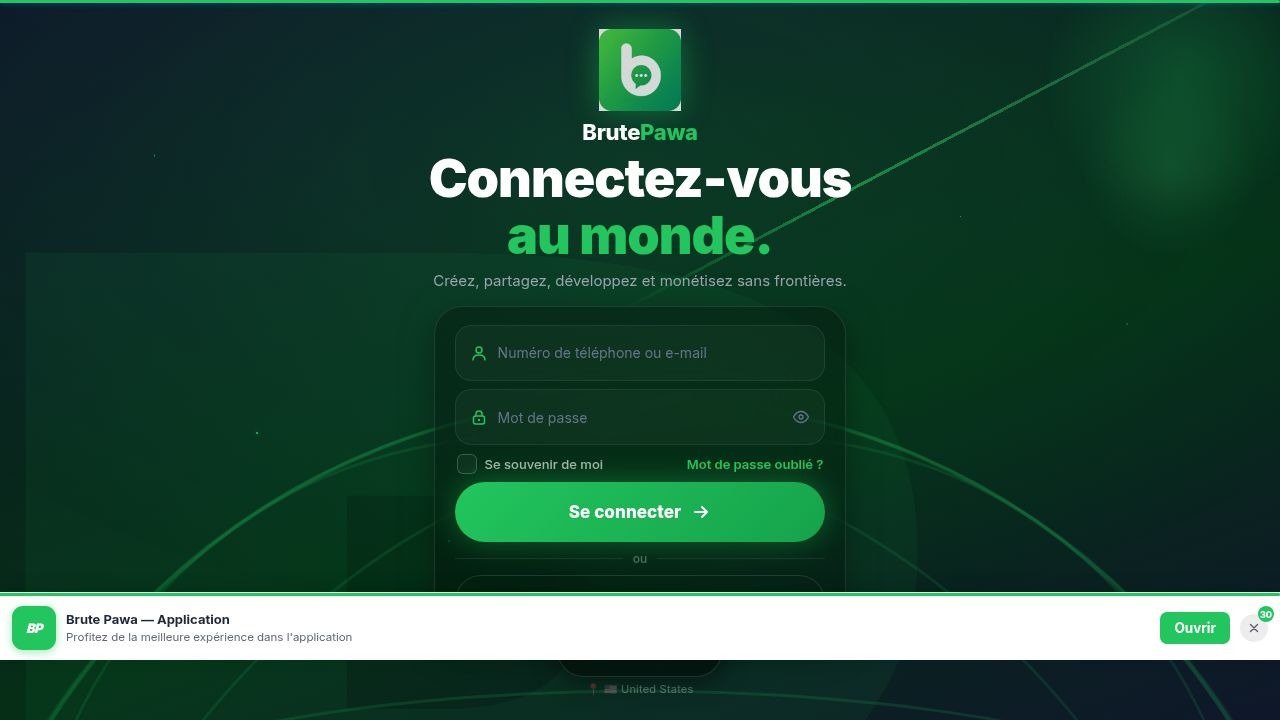
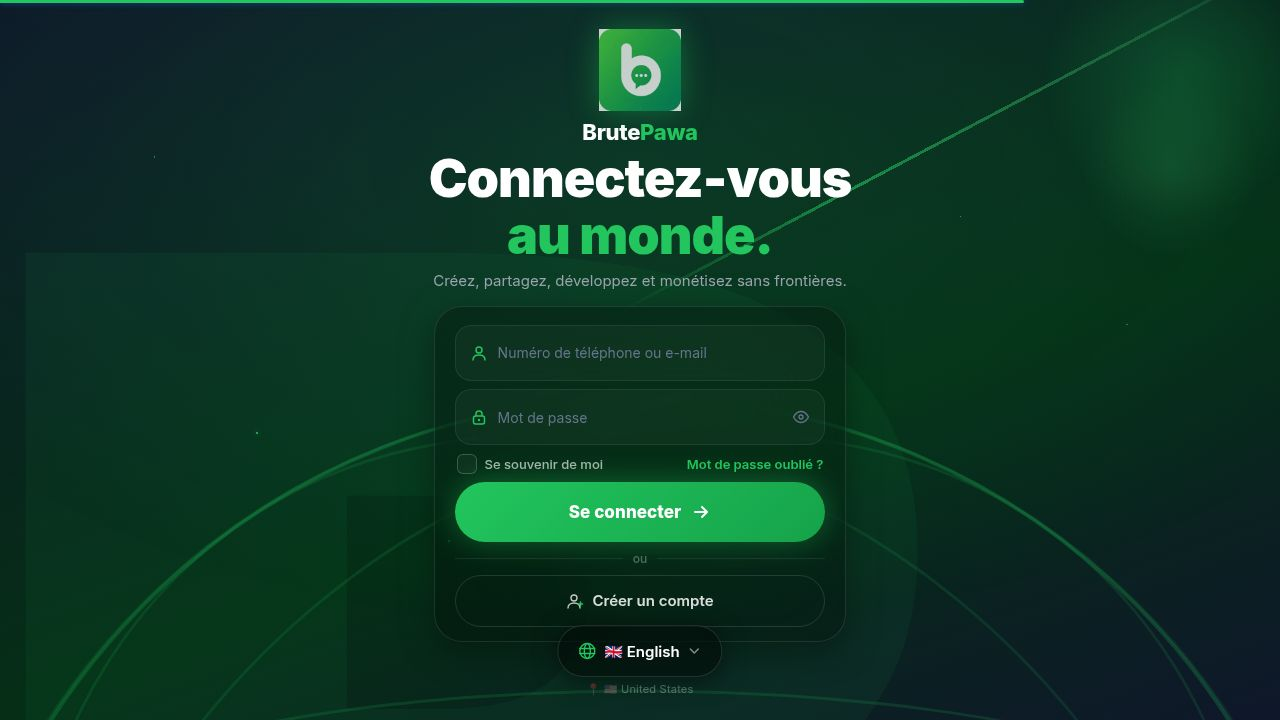
Display real service providers on the marketplace with contact options
Adds a new API endpoint to fetch service providers, integrates provider data into the marketplace UI with a new card component, and implements a "Contact" button for direct messaging.

Replit-Commit-Author: Agent
Replit-Commit-Session-Id: 9e23d6d8-8f3e-40e6-b624-e72e0f327429
Replit-Commit-Checkpoint-Type: full_checkpoint
Replit-Commit-Event-Id: d850554a-a0e0-4e5f-bb00-f1792d16cdf8
Replit-Commit-Screenshot-Url: https://storage.googleapis.com/screenshot-production-us-central1/f63f724d-835e-487d-b1ce-4223fd1e15ae/9e23d6d8-8f3e-40e6-b624-e72e0f327429/G4JF0uV
Replit-Helium-Checkpoint-Created: true

Changed region(s): [[0.0, 0.825, 1.0, 0.9167], [0.8125, 0.0, 1.0, 0.0306]]

diff --git a/artifacts/fblite/src/pages/MarketplacePage.tsx b/artifacts/fblite/src/pages/MarketplacePage.tsx
@@ -4,8 +4,8 @@ import { COUNTRIES } from "../data/mock";
 import ServiceFilterSheet, { type ServiceFilters } from "../components/ServiceFilterSheet";
 import {
   apiGetProducts, apiGetJobs, apiGetMarketplaceServices, apiToggleMarketplaceFavorite, apiGetMarketplaceFavorites,
-  apiCreateMarketplaceService,
-  type ApiProduct, type ApiJob, type ApiMarketplaceService,
+  apiCreateMarketplaceService, apiGetServiceProviders,
+  type ApiProduct, type ApiJob, type ApiMarketplaceService, type ApiServiceProvider,
 } from "../lib/api";
 import { useR2Upload } from "../hooks/useR2Upload";
 
@@ -90,6 +90,8 @@ export default function MarketplacePage() {
   const [apiProducts,   setApiProducts]   = useState<ApiProduct[]>([]);
   const [apiServices,   setApiServices]   = useState<ApiMarketplaceService[]>([]);
   const [apiJobs,       setApiJobs]       = useState<ApiJob[]>([]);
+  const [providers,     setProviders]     = useState<ApiServiceProvider[]>([]);
+  const [loadingProviders, setLoadingProviders] = useState(true);
   const [loading,       setLoading]       = useState(true);
   const [showCreate,    setShowCreate]    = useState(false);
   const [createType,    setCreateType]    = useState<ListingType>("service");
@@ -110,29 +112,30 @@ export default function MarketplacePage() {
   /* Load data */
   useEffect(() => {
     setLoading(true);
-    Promise.all([apiGetProducts(), apiGetMarketplaceServices(), apiGetJobs(), apiGetMarketplaceFavorites()])
-      .then(([p, s, j, favs]) => {
+    setLoadingProviders(true);
+    Promise.all([apiGetProducts(), apiGetMarketplaceServices(), apiGetJobs(), apiGetMarketplaceFavorites(), apiGetServiceProviders()])
+      .then(([p, s, j, favs, prov]) => {
         setApiProducts(p);
-        setApiServices(s.length > 0 ? s : MOCK_SERVICES);
+        setApiServices(s);
         setApiJobs(j);
+        setProviders(prov);
         const favSet = new Set(favs.map(f => `${f.itemType}:${f.itemId}`));
         setFavorites(favSet);
       })
-      .catch(() => {
-        setApiServices(MOCK_SERVICES);
-      })
-      .finally(() => setLoading(false));
+      .catch(() => {})
+      .finally(() => { setLoading(false); setLoadingProviders(false); });
   }, []);
 
-  /* Poll for new listings every 15s */
+  /* Poll for new listings every 30s */
   useEffect(() => {
     const id = setInterval(() => {
-      Promise.all([apiGetProducts(), apiGetMarketplaceServices(), apiGetJobs()]).then(([p, s, j]) => {
+      Promise.all([apiGetProducts(), apiGetMarketplaceServices(), apiGetJobs(), apiGetServiceProviders()]).then(([p, s, j, prov]) => {
         if (p.length > 0) setApiProducts(p);
         if (s.length > 0) setApiServices(s);
         if (j.length > 0) setApiJobs(j);
+        if (prov.length > 0) setProviders(prov);
       }).catch(() => {});
-    }, 15000);
+    }, 30000);
     return () => clearInterval(id);
   }, []);
 
@@ -348,13 +351,36 @@ export default function MarketplacePage() {
               </>
             )}
 
-            {/* Services recommandés */}
+            {/* Services recommandés — données réelles */}
             <SectionHeader icon="services" title="Services recommandés" onSeeAll={() => setActiveTab("services")} />
-            <div style={{ display: "flex", gap: 12, overflowX: "auto", scrollbarWidth: "none", marginBottom: 28, paddingBottom: 4 }}>
-              {displayServices.map(s => (
-                <ServiceCard key={s.id} service={s} />
-              ))}
-            </div>
+            {loadingProviders ? (
+              <div style={{ display: "flex", gap: 12, overflowX: "auto", scrollbarWidth: "none", marginBottom: 28, paddingBottom: 4 }}>
+                {[0,1,2].map(i => (
+                  <div key={i} style={{ flex: "0 0 140px", background: "#fff", borderRadius: 16, padding: 14, boxShadow: "0 2px 8px rgba(0,0,0,0.07)" }}>
+                    <div style={{ width: 56, height: 56, borderRadius: "50%", background: "#F1F5F9", margin: "0 auto 10px" }} />
+                    <div style={{ height: 12, background: "#F1F5F9", borderRadius: 6, marginBottom: 6 }} />
+                    <div style={{ height: 10, background: "#F1F5F9", borderRadius: 6, width: "70%", margin: "0 auto 10px" }} />
+                    <div style={{ height: 32, background: "#F1F5F9", borderRadius: 8 }} />
+                  </div>
+                ))}
+              </div>
+            ) : providers.length === 0 ? (
+              <div style={{ textAlign: "center", padding: "28px 0 36px", color: "#94A3B8" }}>
+                <svg viewBox="0 0 64 64" width="52" height="52" fill="none" style={{ margin: "0 auto 12px", display: "block" }}>
+                  <circle cx="32" cy="32" r="30" fill="#F1F5F9"/>
+                  <path d="M20 42c0-6.627 5.373-12 12-12s12 5.373 12 12" stroke="#CBD5E1" strokeWidth="2.5" strokeLinecap="round"/>
+                  <circle cx="32" cy="24" r="7" stroke="#CBD5E1" strokeWidth="2.5"/>
+                </svg>
+                <p style={{ margin: 0, fontSize: 14, fontWeight: 600, color: "#64748B" }}>Aucun prestataire disponible</p>
+                <p style={{ margin: "4px 0 0", fontSize: 12, color: "#94A3B8" }}>Proposez votre service en premier !</p>
+              </div>
+            ) : (
+              <div style={{ display: "flex", gap: 12, overflowX: "auto", scrollbarWidth: "none", marginBottom: 28, paddingBottom: 4, WebkitOverflowScrolling: "touch" as any }}>
+                {providers.map(p => (
+                  <ProviderCard key={p.userId} provider={p} onContact={() => navigate(`/messages?userId=${p.userId}`)} />
+                ))}
+              </div>
+            )}
 
             {/* Emplois récents */}
             <SectionHeader icon="jobs" title="Emplois récents" onSeeAll={() => setActiveTab("emplois")} />
@@ -696,6 +722,81 @@ function ServiceCard({ service }: { service: ApiMarketplaceService }) {
         width: "100%", display: "flex", alignItems: "center", justifyContent: "center", gap: 5,
         boxShadow: `0 3px 10px ${G}40`, fontFamily: "inherit",
       }}>
+        <IcoPhone />
+        Contacter
+      </button>
+    </div>
+  );
+}
+
+/* ─── Provider card (real data, with Contacter button) ─────── */
+function ProviderCard({ provider, onContact }: { provider: ApiServiceProvider; onContact: () => void }) {
+  const initials = provider.name.split(" ").map((n: string) => n[0]).join("").slice(0, 2).toUpperCase();
+  return (
+    <div style={{
+      background: "#fff", borderRadius: 16, padding: "16px 12px", flexShrink: 0,
+      width: 136, display: "flex", flexDirection: "column", alignItems: "center", gap: 8,
+      boxShadow: "0 2px 12px rgba(0,0,0,0.08)", border: "1px solid #F1F5F9",
+    }}>
+      {/* Avatar */}
+      <div style={{ position: "relative" }}>
+        <div style={{
+          width: 60, height: 60, borderRadius: "50%", overflow: "hidden",
+          background: provider.coverColor || G,
+          display: "flex", alignItems: "center", justifyContent: "center",
+        }}>
+          {provider.avatarUrl
+            ? <img src={provider.avatarUrl} alt={provider.name} style={{ width: "100%", height: "100%", objectFit: "cover" }} onError={e => { (e.target as HTMLImageElement).style.display = "none"; }} />
+            : <span style={{ color: "#fff", fontWeight: 700, fontSize: 22 }}>{initials}</span>
+          }
+        </div>
+        {provider.isVerified && (
+          <div style={{
+            position: "absolute", bottom: 1, right: 1,
+            width: 18, height: 18, borderRadius: "50%",
+            background: G, border: "2.5px solid #fff",
+            display: "flex", alignItems: "center", justifyContent: "center",
+          }}>
+            <svg viewBox="0 0 10 10" width="9" height="9" fill="none" stroke="#fff" strokeWidth="1.8" strokeLinecap="round">
+              <path d="M2 5l2 2 4-4"/>
+            </svg>
+          </div>
+        )}
+      </div>
+
+      {/* Info */}
+      <div style={{ textAlign: "center", width: "100%" }}>
+        <div style={{ fontWeight: 700, fontSize: 12.5, color: "#111827", overflow: "hidden", textOverflow: "ellipsis", whiteSpace: "nowrap" }}>{provider.name}</div>
+        <div style={{ fontSize: 11, color: "#64748B", marginTop: 2, overflow: "hidden", textOverflow: "ellipsis", whiteSpace: "nowrap" }}>{provider.profession}</div>
+
+        {/* Rating */}
+        <div style={{ display: "flex", alignItems: "center", justifyContent: "center", gap: 3, marginTop: 6 }}>
+          <IcoStar />
+          <span style={{ fontWeight: 700, fontSize: 11.5, color: "#111827" }}>{provider.rating.toFixed(1)}</span>
+          <span style={{ fontSize: 10, color: "#9CA3AF" }}>({provider.reviewsCount})</span>
+        </div>
+
+        {/* Services count */}
+        {provider.servicesCount > 1 && (
+          <div style={{ fontSize: 10, color: "#94A3B8", marginTop: 3 }}>
+            {provider.servicesCount} service{provider.servicesCount > 1 ? "s" : ""}
+          </div>
+        )}
+      </div>
+
+      {/* Contact button */}
+      <button
+        onClick={onContact}
+        style={{
+          background: G, color: "#fff", border: "none", borderRadius: 10,
+          padding: "8px 0", fontWeight: 700, fontSize: 11.5, cursor: "pointer",
+          width: "100%", display: "flex", alignItems: "center", justifyContent: "center", gap: 5,
+          boxShadow: `0 3px 10px ${G}40`, fontFamily: "inherit",
+          transition: "opacity .15s",
+        }}
+        onMouseEnter={e => { (e.currentTarget as HTMLButtonElement).style.opacity = "0.85"; }}
+        onMouseLeave={e => { (e.currentTarget as HTMLButtonElement).style.opacity = "1"; }}
+      >
         <IcoPhone />
         Contacter
       </button>

diff --git a/artifacts/api-server/src/routes/marketplace.ts b/artifacts/api-server/src/routes/marketplace.ts
@@ -1,6 +1,6 @@
 import { Router } from "express";
 import { db, productsTable, ordersTable, marketplaceServicesTable, marketplaceFavoritesTable } from "@workspace/db";
-import { eq, ilike, and, desc, or } from "drizzle-orm";
+import { eq, ilike, and, desc, or, sql } from "drizzle-orm";
 import {
   CreateProductBody, GetProductParams, UpdateProductParams, UpdateProductBody,
   DeleteProductParams, ListProductsQueryParams, CreateOrderBody, GetOrderParams
@@ -158,6 +158,70 @@ router.get("/orders/:id", requireAuth, async (req, res): Promise<void> => {
     .where(and(eq(ordersTable.id, params.data.id), eq(ordersTable.buyerId, req.userId!)));
   if (!order) { res.status(404).json({ error: "Order not found" }); return; }
   res.json({ ...order, amount: Number(order.amount) });
+});
+
+/* ── Marketplace Service Providers ─────────────────────────── */
+
+router.get("/marketplace/services/providers", requireAuth, async (req, res): Promise<void> => {
+  try {
+    const result = await db.execute(sql`
+      WITH ranked AS (
+        SELECT
+          ms.id,
+          ms.user_id,
+          ms.profession,
+          ms.rating,
+          ms.reviews_count,
+          ms.avatar_url     AS service_avatar,
+          ms.cover_color,
+          ms.city,
+          ms.country,
+          ms.created_at,
+          ms.description,
+          ms.price,
+          ms.currency,
+          u.first_name,
+          u.last_name,
+          u.avatar_url      AS user_avatar,
+          u.verified        AS user_verified,
+          ROW_NUMBER() OVER (
+            PARTITION BY ms.user_id
+            ORDER BY ms.rating DESC NULLS LAST, ms.reviews_count DESC NULLS LAST
+          ) AS rn,
+          COUNT(*) OVER (PARTITION BY ms.user_id) AS services_count
+        FROM marketplace_services ms
+        JOIN users u ON u.id = ms.user_id
+        WHERE ms.status = 'active'
+      )
+      SELECT
+        user_id           AS "userId",
+        first_name || ' ' || last_name AS name,
+        profession,
+        COALESCE(user_avatar, service_avatar) AS "avatarUrl",
+        user_verified     AS "isVerified",
+        ROUND(rating::numeric, 1)  AS rating,
+        reviews_count     AS "reviewsCount",
+        services_count::int AS "servicesCount",
+        city,
+        country,
+        cover_color       AS "coverColor",
+        created_at        AS "createdAt"
+      FROM ranked
+      WHERE rn = 1
+      ORDER BY rating DESC NULLS LAST, reviews_count DESC NULLS LAST, created_at DESC
+      LIMIT 20
+    `);
+    res.json(result.rows.map((r: any) => ({
+      ...r,
+      rating: r.rating != null ? Number(r.rating) : 5.0,
+      reviewsCount: r.reviewsCount != null ? Number(r.reviewsCount) : 0,
+      servicesCount: r.servicesCount != null ? Number(r.servicesCount) : 1,
+      isVerified: r.isVerified === true || r.isVerified === "true",
+    })));
+  } catch (err) {
+    console.error("[providers]", err);
+    res.json([]);
+  }
 });
 
 /* ── Marketplace Services ──────────────────────────────────── */

diff --git a/artifacts/fblite/src/lib/api.ts b/artifacts/fblite/src/lib/api.ts
@@ -1111,6 +1111,27 @@ export interface ApiMarketplaceService {
   createdAt: string;
 }
 
+export interface ApiServiceProvider {
+  userId: number;
+  name: string;
+  profession: string;
+  avatarUrl: string | null;
+  isVerified: boolean;
+  rating: number;
+  reviewsCount: number;
+  servicesCount: number;
+  city: string | null;
+  country: string | null;
+  coverColor: string;
+  createdAt: string;
+}
+
+export async function apiGetServiceProviders(): Promise<ApiServiceProvider[]> {
+  const res = await apiFetch("/marketplace/services/providers");
+  if (!res.ok) return [];
+  return res.json() as Promise<ApiServiceProvider[]>;
+}
+
 export async function apiGetProducts(params?: { category?: string; search?: string; country?: string }): Promise<ApiProduct[]> {
   const q = new URLSearchParams();
   if (params?.category) q.set("category", params.category);